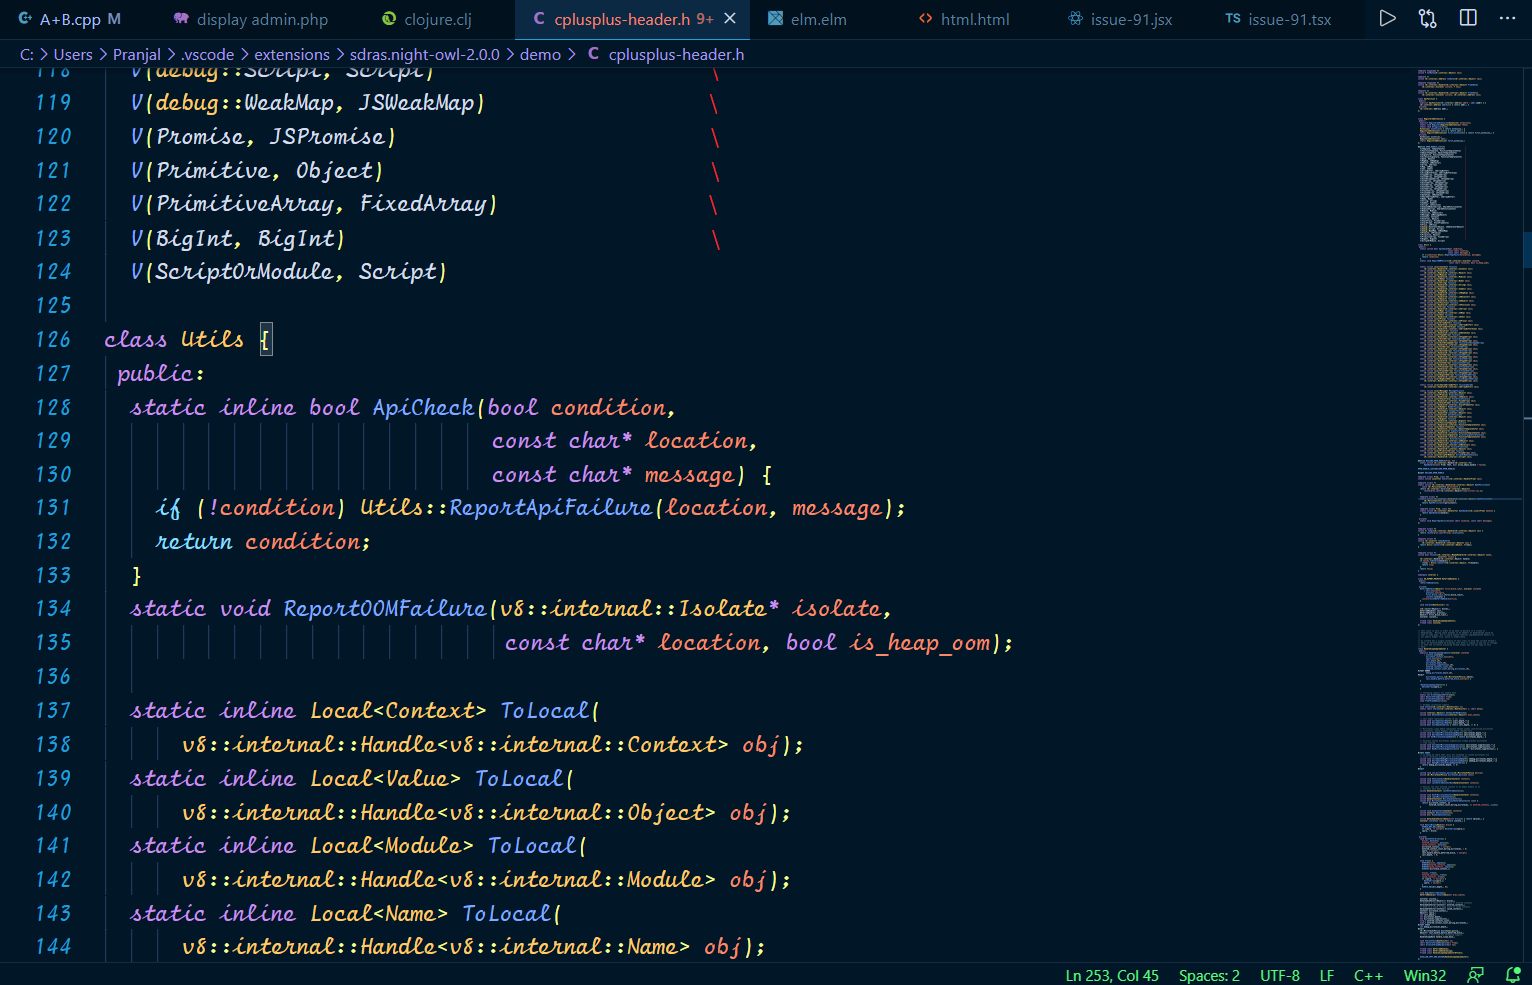
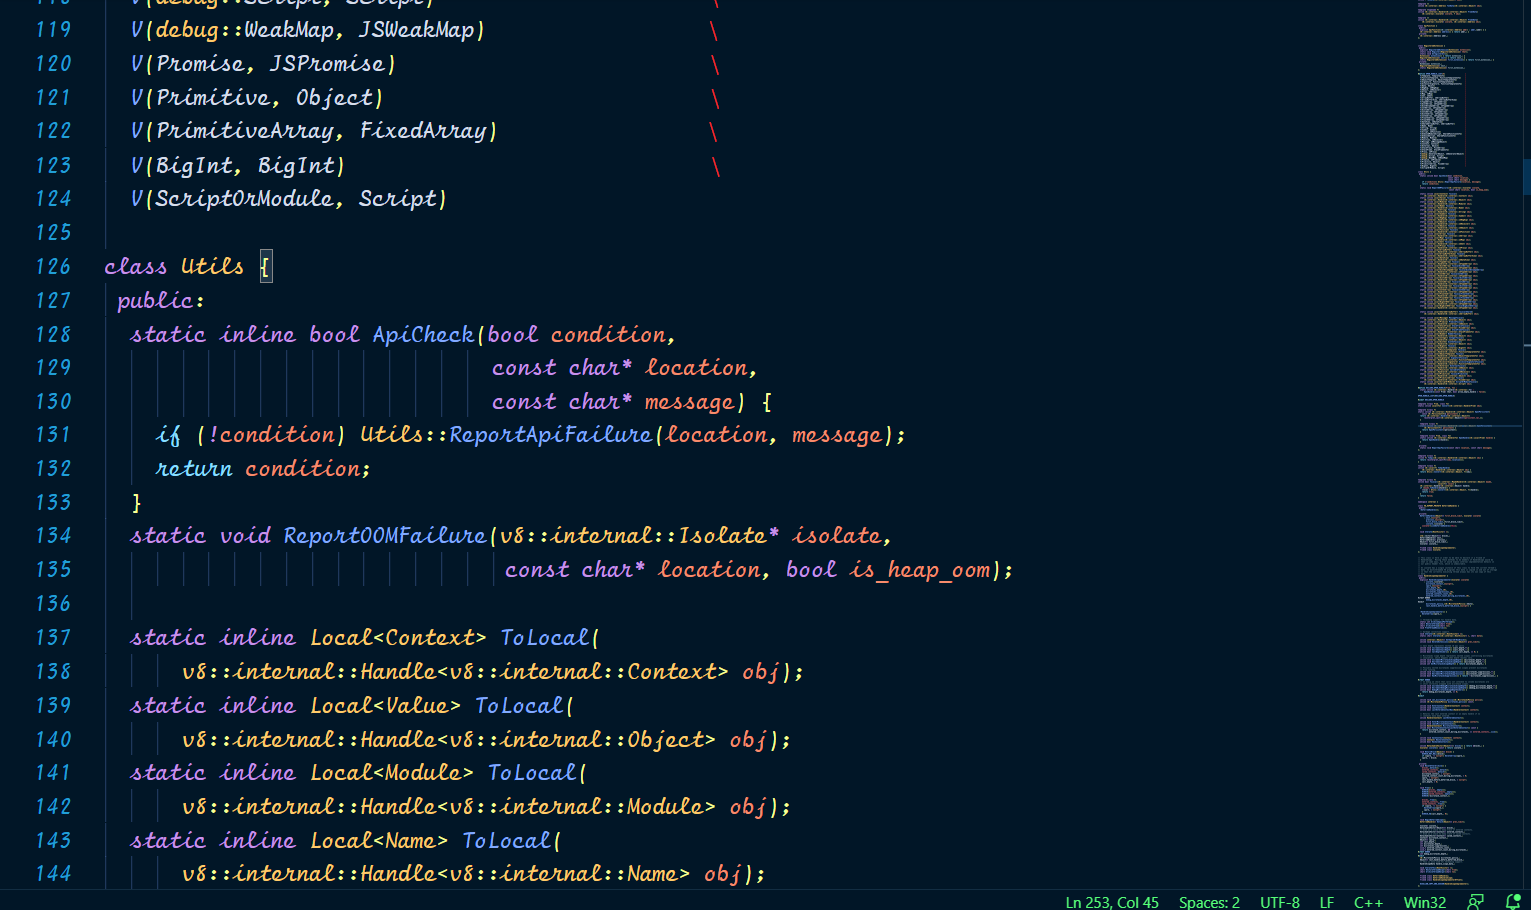
1.57 bugs fix and suggest widget fix

diff --git a/CHANGELOG.md b/CHANGELOG.md
@@ -1,30 +1,42 @@
 # Change Log
 
+## `4th Release -v 0.10.9`
+
+> ### `Fixed Bug`
+> - *Editor suggest widget list was invisible in v 1.57 due to introduction of new color tokens like focus foreground.*
+> ### `Changed`
+> - *Markdown heading color lightened*
+> - *Breadcrumb background color*
+> ### `Added`
+> - *New suggest Widget*
+> - *List focus highlight foreground*
+> - *some Quick input colors*
+
 ## `3rd Release -v 0.9.5`
 
-> ### `changed`
-> - *Wiget color*
-> - *Status Bar hover and active color*
-> - *Badge foreground and background*
+> ### `Changed`
+> - *Widget color*
+> - *Status Bar hover and active colors*
+> - *Badge foreground and background colors*
 > - *tab header background color*
-> - *Side Bar selection color*
-> - *Side Bar header color*
-> - *Markdown color*
-> ### `added`
-> - *more diverse syntax highlighting*
-> - *dirty tab color indication*
-> - *split editor border*
+> - *Side Bar selection and header colors*
+> - *Markdown syntax color*
+> ### `Added`
+> - *Bold and Italic syntax highlighting*
+> - *More diverse syntax highlighting*
+> - *Dirty tab color indication*
+> - *Split editor border*
 > - *Active VS Code Window Border*
 
 
 ## `2nd Release -v 0.8.2`
 
 
-> ### `changed`
+> ### `Changed`
 > - *Markdown link color*
-> ### `added`
-> - *previews for languages*
-> - *preview for fonts*
+> ### `Added`
+> - *Previews for languages*
+> - *Preview for fonts*
 
 
 ## `Initial release -v 0.7.1`
